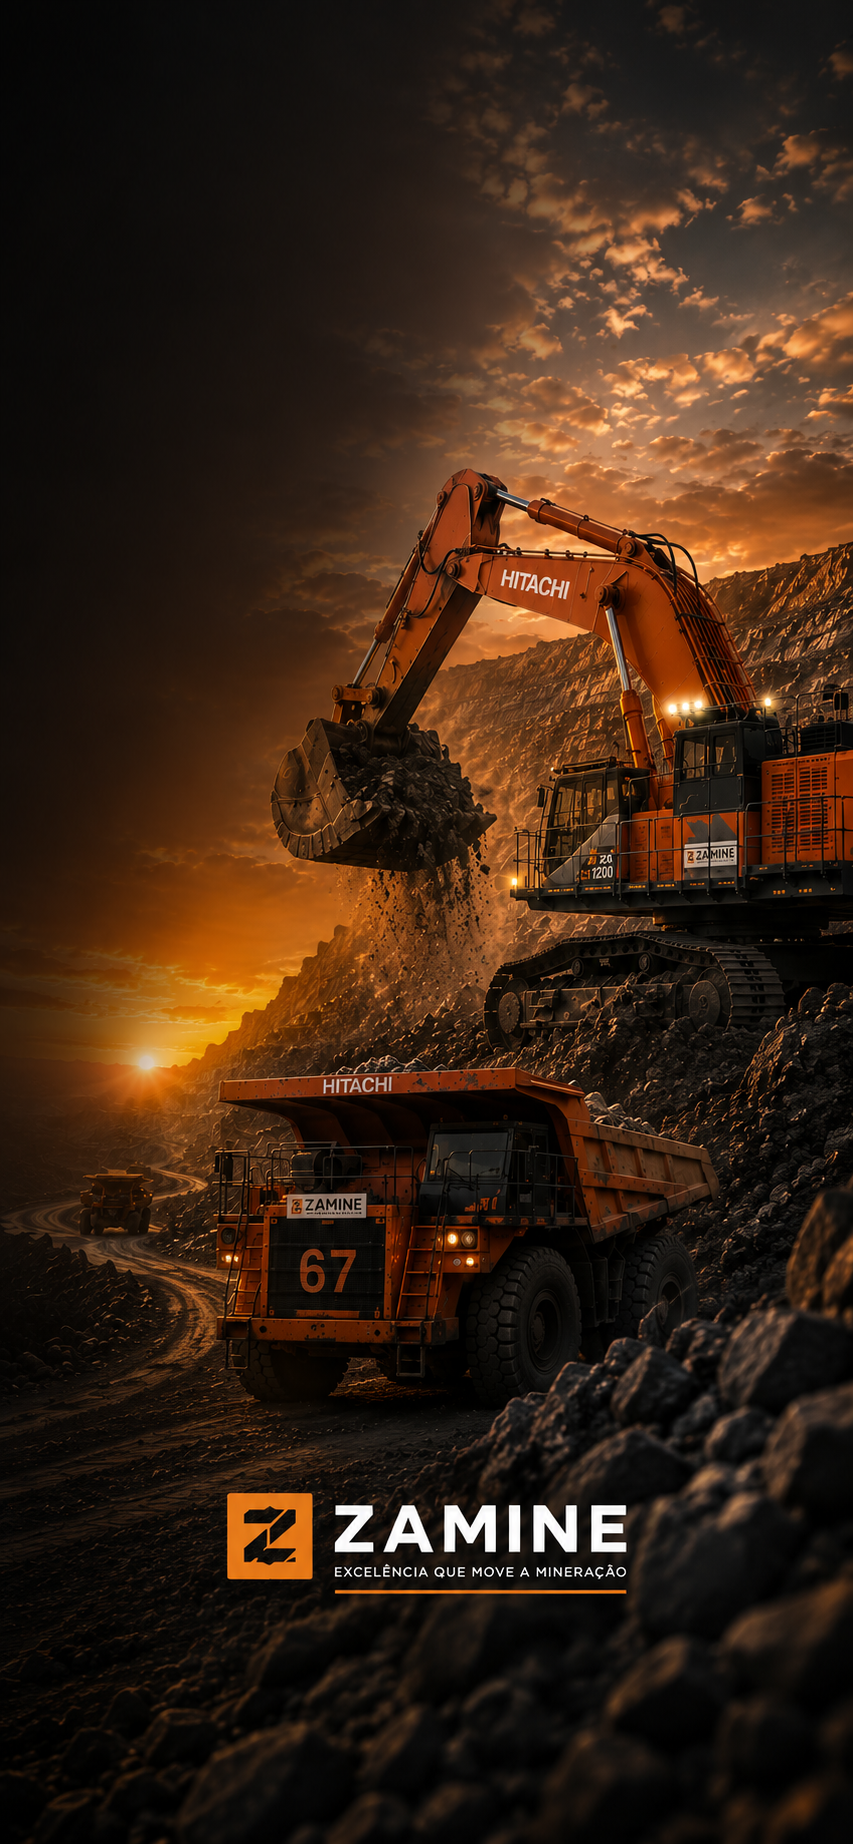
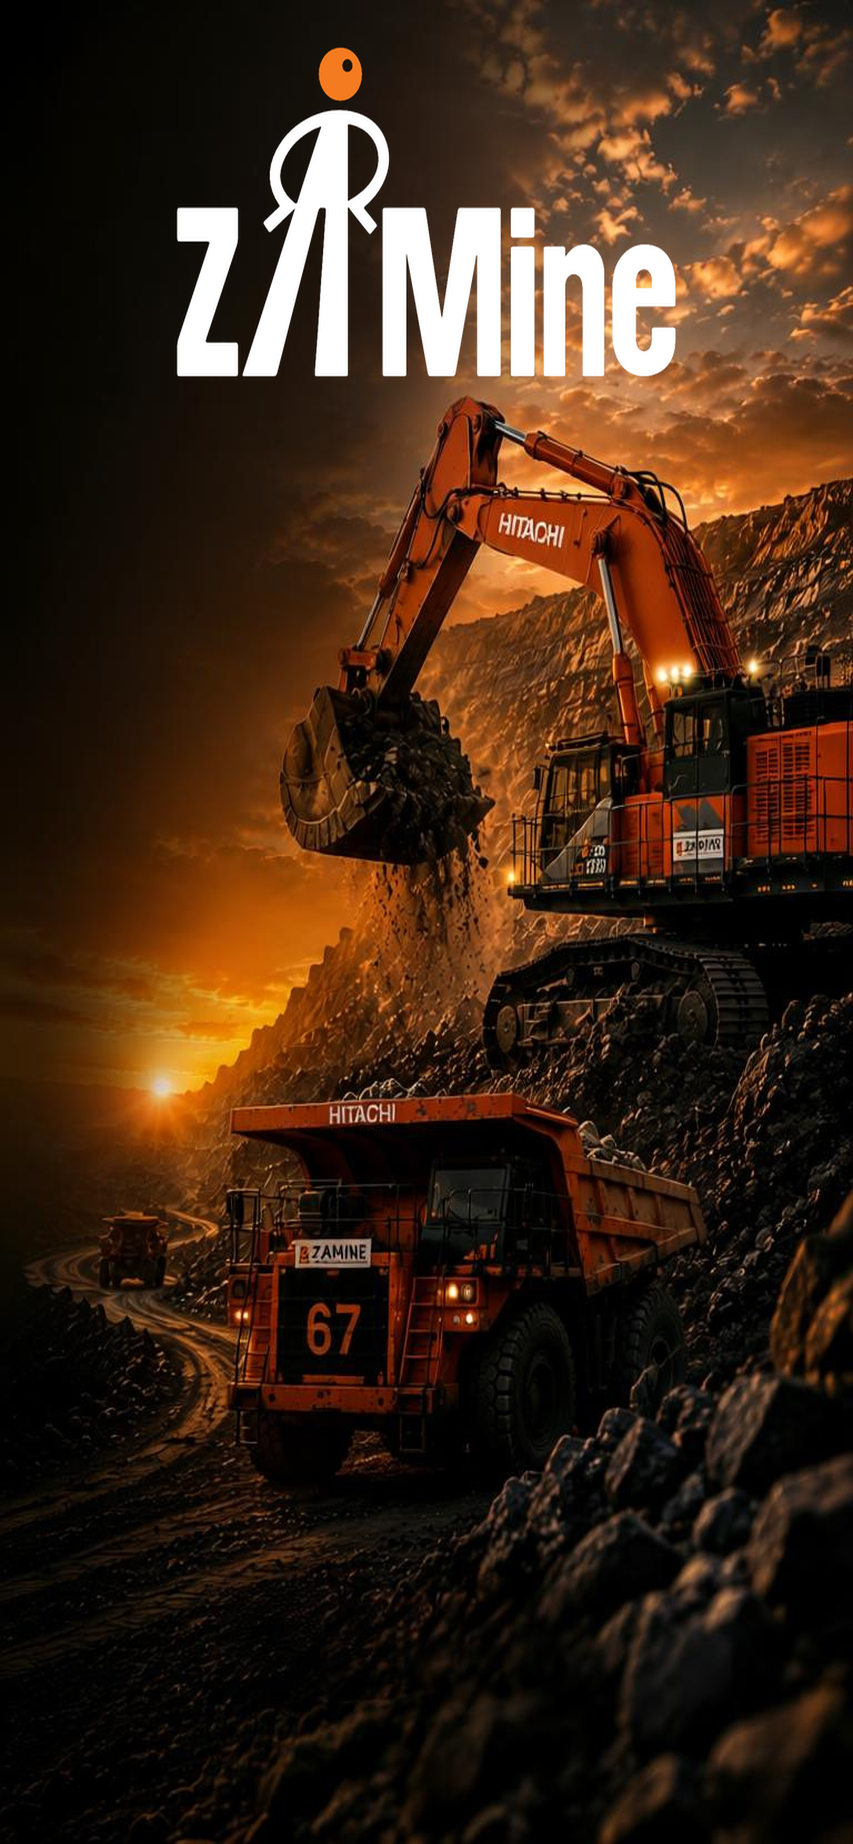
feat: mapa ampliado no desktop, app de inspeção com tema claro clean e nova identidade visual ZAMine (v17)
- Mapa: viewBox apertado ao desenho real (~1.6x maior, desktop e mobile)
- Nova logo ZAMine (branca/dark/PWA/favicon) em toda a plataforma
- Logins desktop/mobile refeitos: marca antiga removida via IA, nova logo composta
- Inspeção de Segurança: tema claro completo (era preto), header com logo, Voltar flutuante

diff --git a/public/html/inspecoes-seguranca.html b/public/html/inspecoes-seguranca.html
@@ -12,27 +12,28 @@
         }
 
         :root {
+            color-scheme: light;
             --primary: #ff6600;
             --primary-hover: #e55a00;
-            --primary-glow: rgba(255, 102, 0, 0.15);
-            --bg-dark: #09090b;
-            --bg-card: #18181b;
-            --bg-card-hover: #1f1f23;
-            --bg-input: #27272a;
-            --bg-elevated: #2a2a2e;
-            --border: #3f3f46;
-            --border-subtle: #27272a;
-            --text-primary: #fafafa;
-            --text-secondary: #a1a1aa;
-            --text-muted: #71717a;
+            --primary-glow: rgba(255, 102, 0, 0.12);
+            --bg-dark: #f4f5f7;
+            --bg-card: #ffffff;
+            --bg-card-hover: #fafbfc;
+            --bg-input: #ffffff;
+            --bg-elevated: #f8f9fa;
+            --border: #e4e7ec;
+            --border-subtle: #eef0f3;
+            --text-primary: #1a1d23;
+            --text-secondary: #4b5563;
+            --text-muted: #9aa3af;
             --success: #10b981;
-            --success-bg: rgba(16, 185, 129, 0.1);
+            --success-bg: rgba(16, 185, 129, 0.12);
             --warning: #f59e0b;
-            --warning-bg: rgba(245, 158, 11, 0.1);
+            --warning-bg: rgba(245, 158, 11, 0.12);
             --danger: #ef4444;
-            --danger-bg: rgba(239, 68, 68, 0.1);
+            --danger-bg: rgba(239, 68, 68, 0.12);
             --info: #06b6d4;
-            --info-bg: rgba(6, 182, 212, 0.1);
+            --info-bg: rgba(6, 182, 212, 0.12);
         }
 
         html { scroll-behavior: smooth; }
@@ -83,7 +84,7 @@
                 border: 1px solid var(--border);
                 padding: 12px;
                 border-radius: 12px;
-                box-shadow: 0 8px 32px rgba(0,0,0,0.6);
+                box-shadow: 0 8px 32px rgba(16,24,40,0.14);
                 flex-direction: column;
                 z-index: 1001;
                 opacity: 0;
@@ -143,7 +144,7 @@
             top: 0;
             z-index: 100;
             backdrop-filter: blur(12px);
-            background: rgba(24, 24, 27, 0.92);
+            background: rgba(255, 255, 255, 0.92);
         }
 
         .header-content {
@@ -232,7 +233,7 @@
     color: var(--text-primary);
     width: 100%;
     max-width: 900px;
-    box-shadow: 0 4px 24px rgba(0,0,0,0.2);
+    box-shadow: 0 4px 24px rgba(16,24,40,0.08);
 }
 
 @media (min-width: 1400px) {
@@ -332,7 +333,7 @@
 
         .risk-btn:hover {
             transform: translateY(-1px);
-            box-shadow: 0 4px 16px rgba(0,0,0,0.3);
+            box-shadow: 0 4px 16px rgba(16,24,40,0.1);
         }
 
         .risk-btn.low.active {
@@ -576,7 +577,7 @@
             left: 0;
             width: 100%;
             height: 100%;
-            background: rgba(0,0,0,0.8);
+            background: rgba(0,0,0,0.55);
             z-index: 1000;
             align-items: center;
             justify-content: center;
@@ -666,7 +667,7 @@
             color: #fafafa;
             padding: 15px 20px;
             border-radius: 8px;
-            box-shadow: 0 4px 12px rgba(0,0,0,0.2);
+            box-shadow: 0 4px 12px rgba(16,24,40,0.08);
             transform: translateX(400px);
             transition: transform 0.3s ease;
             z-index: 2000;
@@ -1446,7 +1447,7 @@
             left: 0;
             width: 100%;
             height: 100%;
-            background: rgba(0,0,0,0.8);
+            background: rgba(0,0,0,0.55);
             z-index: 2000;
             align-items: center;
             justify-content: center;
@@ -1502,11 +1503,11 @@
 </head>
 <body>
     <!-- Botão Voltar para Home -->
-    <a href="/" style="position: fixed; top: 12px; left: 12px; z-index: 9999; background: linear-gradient(135deg, #f97316, #ea580c); color: white; padding: 8px 14px; border-radius: 10px; text-decoration: none; font-weight: 600; font-size: 13px; box-shadow: 0 2px 12px rgba(0,0,0,0.4); display: flex; align-items: center; gap: 6px; transition: all 0.2s ease; border: 1px solid rgba(255,255,255,0.1);"><svg xmlns="http://www.w3.org/2000/svg" width="16" height="16" viewBox="0 0 24 24" fill="none" stroke="currentColor" stroke-width="2" stroke-linecap="round" stroke-linejoin="round"><path d="M19 12H5M12 19l-7-7 7-7"/></svg>Voltar</a>
+    <a href="/" style="position: fixed; bottom: 18px; right: 18px; z-index: 9999; background: linear-gradient(135deg, #f97316, #ea580c); color: white; padding: 8px 14px; border-radius: 10px; text-decoration: none; font-weight: 600; font-size: 13px; box-shadow: 0 2px 12px rgba(0,0,0,0.4); display: flex; align-items: center; gap: 6px; transition: all 0.2s ease; border: 1px solid rgba(255,255,255,0.1);"><svg xmlns="http://www.w3.org/2000/svg" width="16" height="16" viewBox="0 0 24 24" fill="none" stroke="currentColor" stroke-width="2" stroke-linecap="round" stroke-linejoin="round"><path d="M19 12H5M12 19l-7-7 7-7"/></svg>Voltar</a>
     <header>
         <div class="header-content">
             <h1>
-                <div class="logo">📋</div>
+                <img src="/images/zamine-logo-dark.png" alt="ZAMine" style="height: 30px; width: auto; display: block;">
                 Sistema Avançado de Inspeção
             </h1>
             <button class="menu-toggle" onclick="toggleMenu()">
@@ -1524,7 +1525,7 @@
     <button class="btn btn-info" onclick="toggleDropdown()">
         💾 Exportar JSON ▼
     </button>
-    <div id="exportDropdown" class="dropdown-content" style="display: none; position: absolute; background-color: #18181b; min-width: 220px; box-shadow: 0px 8px 32px rgba(0,0,0,0.5); z-index: 1000; border-radius: 12px; overflow: hidden; border: 1px solid #3f3f46;">
+    <div id="exportDropdown" class="dropdown-content" style="display: none; position: absolute; background-color: #ffffff; min-width: 220px; box-shadow: 0px 8px 32px rgba(16,24,40,0.16); z-index: 1000; border-radius: 12px; overflow: hidden; border: 1px solid #e4e7ec;">
         <a href="#" class="dropdown-item" onclick="exportHistoryJSON(event)">📋 Exportar Histórico Completo</a>
         <a href="#" class="dropdown-item" onclick="exportFormJSON(event)">📝 Exportar Formulário Atual</a>
     </div>

diff --git a/src/components/brazil-map.tsx b/src/components/brazil-map.tsx
@@ -188,7 +188,7 @@ export default function BrazilMap({ onStateClick, activeState }: BrazilMapProps)
         }}
       >
         <svg
-          viewBox="0 0 1080 1080"
+          viewBox="220 205 640 670"
           className="w-full h-full"
           style={{ filter: "drop-shadow(0 0 30px rgba(244, 114, 22, 0.06))", minWidth: '100%', minHeight: '100%' }}
           preserveAspectRatio="xMidYMid meet"

diff --git a/src/lib/version.ts b/src/lib/version.ts
@@ -4,7 +4,7 @@
  * A cada deploy, incremente esse número.
  * O Service Worker usa essa versão para invalidar o cache antigo.
  */
-export const APP_VERSION = 16;
+export const APP_VERSION = 17;
 
 /** Data/hora do último deploy (preenchido manualmente) */
 export const DEPLOY_DATE = "13/10/2026";

diff --git a/worklog.md b/worklog.md
@@ -133,3 +133,28 @@ Testes (E2E agent-browser + curl contra banco real do Render):
 - Mobile 390px: pill bottom-left sem sobrepor FAB; plataforma (/) intacta
 - Cleanup: rascunhos de teste apagados (via API), sessionToken de teste anulado
 - lint: apenas +2 warnings intencionais (full-reload para revalidar SSO); nenhum erro novo; TS: apenas baseline pré-existente
+
+---
+Task ID: 12 (v17)
+Data: 14/10/2026
+
+## Mapa maior no desktop + repaginação clara do app de Inspeção + nova logo ZAMine
+
+- Mapa do Brasil: viewBox apertado de "0 0 1080 1080" para "220 205 640 670" (bbox real do desenho calculado por script) — mapa ~1.6x MAIOR em desktop e mobile, sem cortar nada; clique nos estados revalidado (AP abre Serviços)
+- Nova logo (enviada pelo Max: ZAMine Branco&Laranja):
+  - public/images/zamine-logo.png (branca, recortada) — substitui a antiga em todos os usos (header, loading, login, Sobre, modais EPI/ZAB)
+  - public/images/zamine-logo-dark.png (NOVA, texto escuro) — para fundos claros
+  - Ícones PWA 192/512 + favicon regenerados (logo branca em quadrado escuro #111214, 62% maskable-safe)
+  - Login desktop/mobile: logo antiga com tagline removida via image-edit (SDK z-ai) e nova logo composta (PIL) — public/login-desktop.png / login-mobile.png
+- App de Inspeção de Segurança (public/html/inspecoes-seguranca.html) repaginado para TEMA CLARO clean:
+  - :root trocado (branco/#f4f5f7, bordas #e4e7ec, textos #1a1d23, color-scheme: light); laranja da marca mantido
+  - header branco translúcido; sombras suavizadas (rgba preto → rgba(16,24,40,~0.08-0.16)); modal backdrop 0.8→0.55
+  - dropdown de export inline escuro → branco; emoji 📋 → <img> da nova logo dark
+  - botão Voltar fixo movido do topo (cobria a logo) para canto inferior direito flutuante
+- v17 (cache-bust)
+
+Testes (agent-browser, desktop 1440x900 + mobile 390x844):
+- Login: fundos novos com a logo ZAMine; v17 no badge e rodapé
+- Mapa desktop: ocupa quase toda a altura, labels legíveis; mobile: preenche a largura; AP clicável
+- Inspeção: tema claro em todas as seções (stats, formulário, checklist, resumo, histórico); header com logo; Voltar não cobre mais nada permanente
+- Console sem erros; lint = baseline (24 erros pré-existentes, +2 warnings intencionais); token de teste limpo
